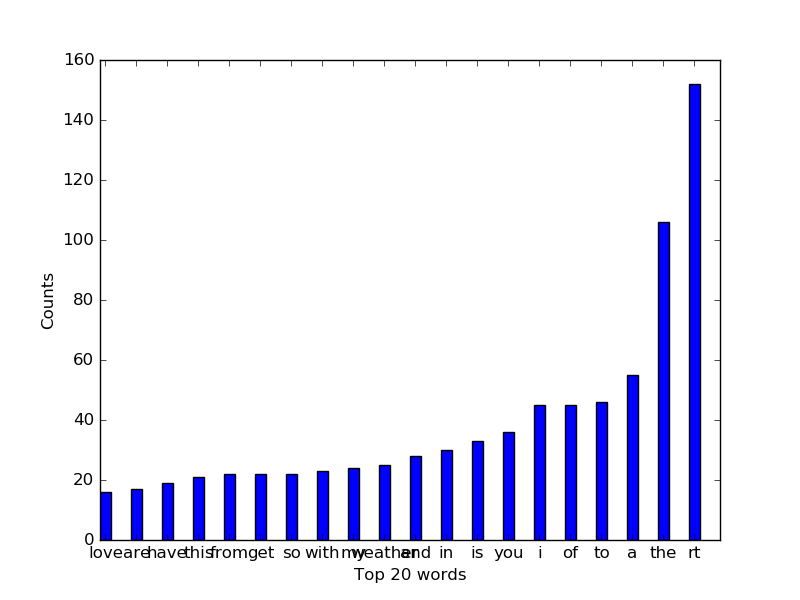
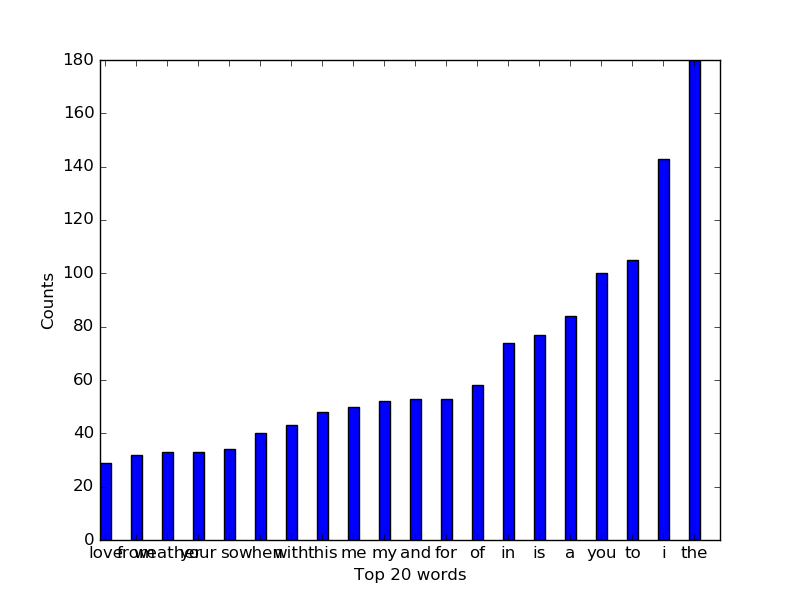
Fixed a bug

diff --git a/tweetwordcount/src/bolts/parse.py b/tweetwordcount/src/bolts/parse.py
@@ -28,7 +28,7 @@ class ParseTweet(Bolt):
             if word.startswith("@"): continue
 
             # Filter out retweet tags
-            if word.startswith("RT"): continue
+            if word.startswith("rt"): continue
 
             # Filter out the urls
             if word.startswith("http"): continue
